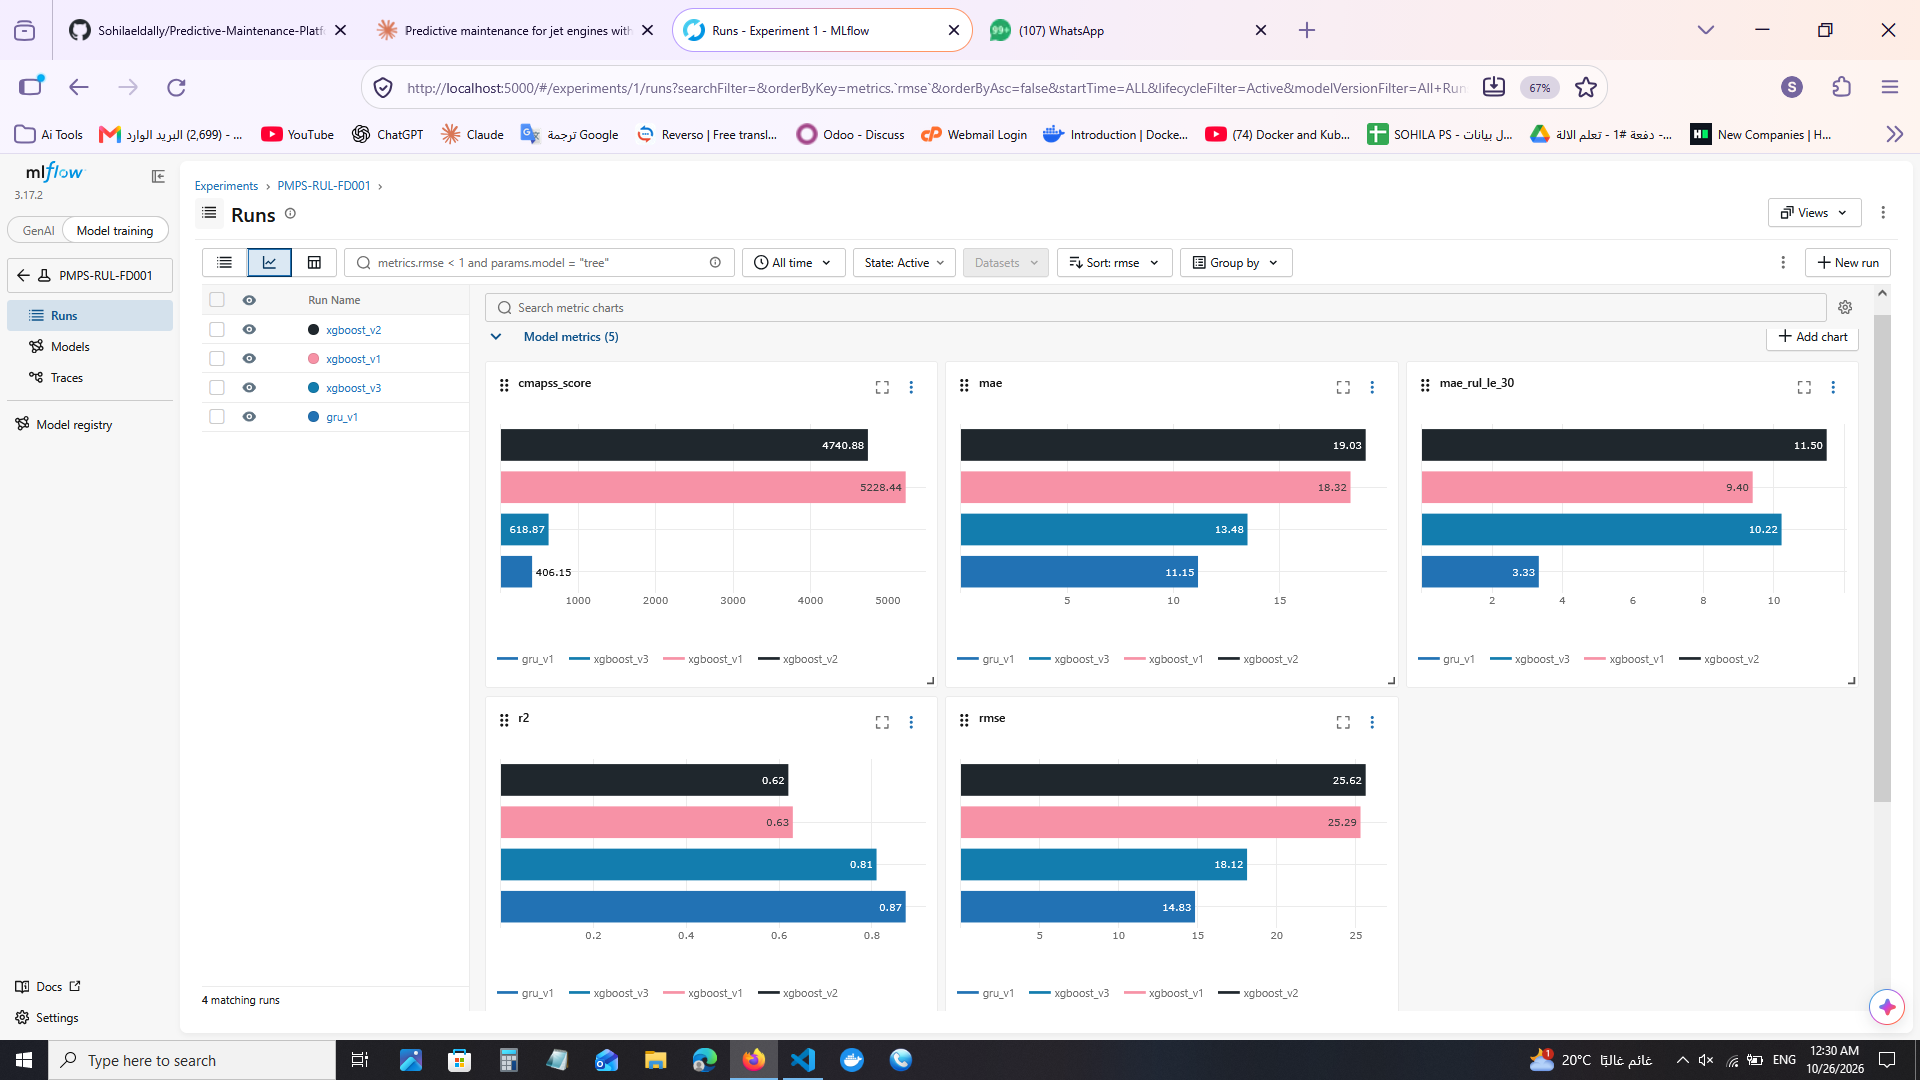
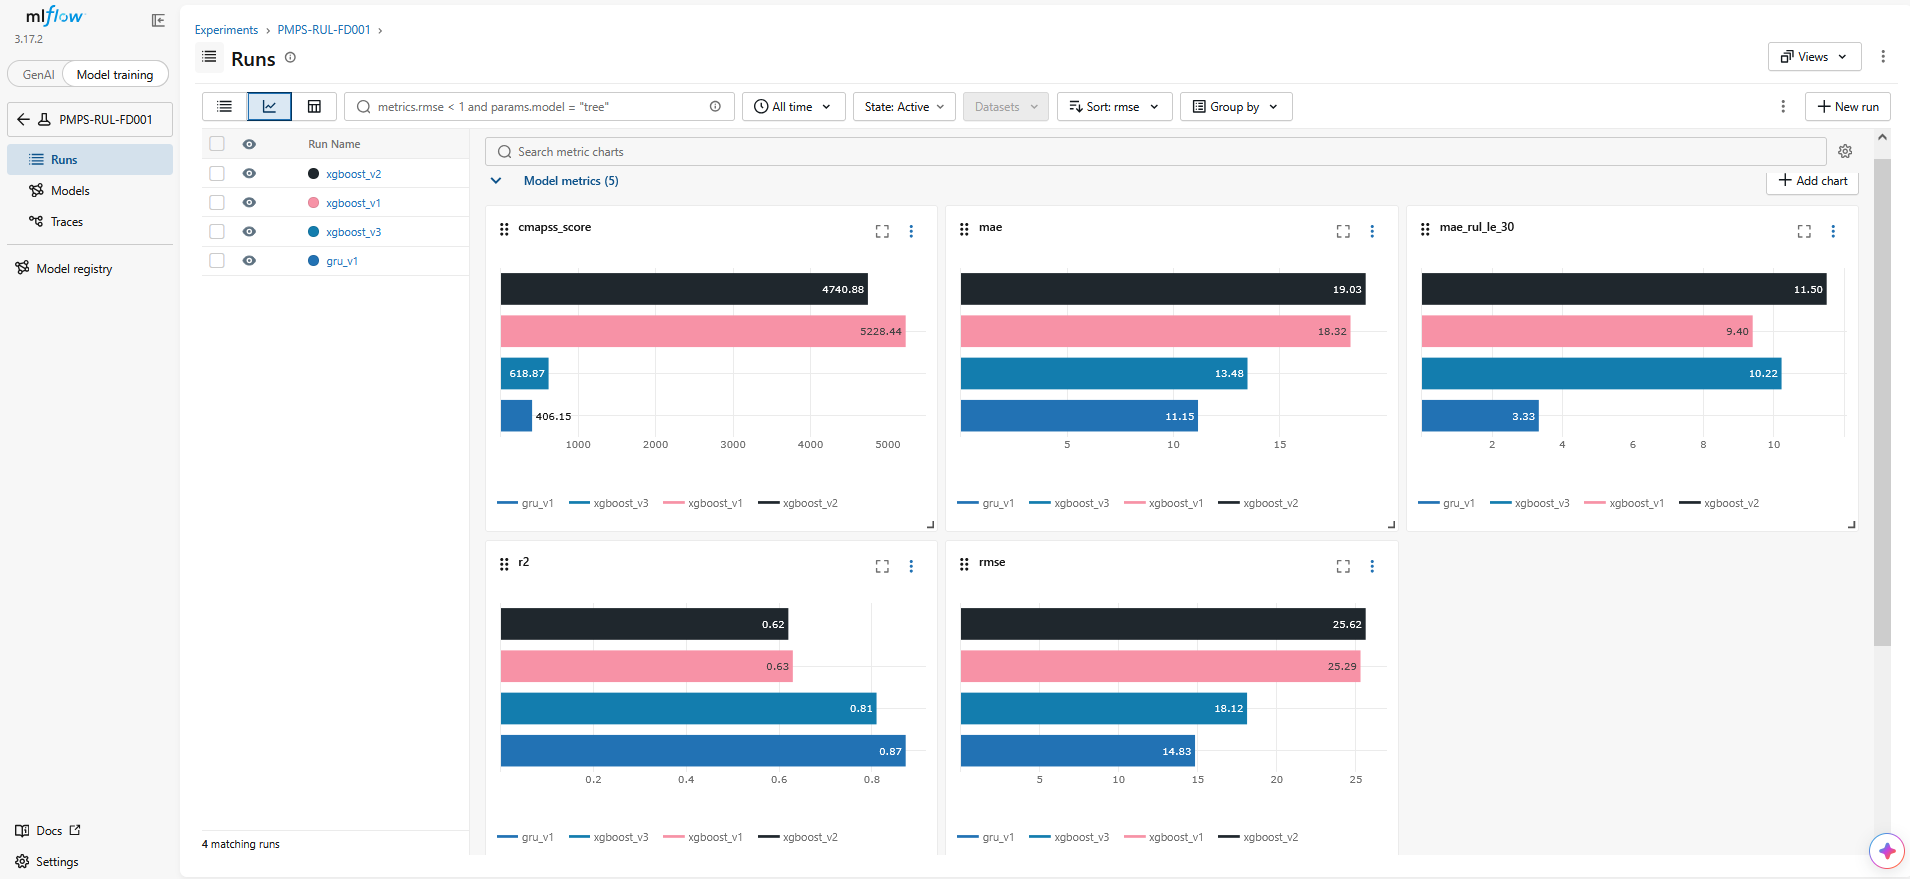
Update README to include MLflow experiment tracking details and add comparison image

diff --git a/README.md b/README.md
@@ -102,6 +102,8 @@ test set, last cycle of each engine):
 | Engines really at RUL ≤ 15 caught as CRITICAL (of 10) | 8, 0 false alarms | 8, 0 false alarms |
 | Engines really at RUL ≤ 30 caught as WARNING or worse (of 25) | 18, 1 false alarm | **22**, 1 false alarm |
 
+
+
 **Are the alerts early or late?** The tables above look at the last cycle only.
 `python -m ml.alert_timing` replays every test engine cycle by cycle and
 compares the first cycle where each model raised an alert with the cycle where
@@ -183,6 +185,21 @@ C-MAPSS score and the MAE where the true RUL is ≤ 30 (the alert zone). They
 match the results table above. One thing the alert-zone column shows: the RUL
 cap of v3 improves the overall error, but v1 is slightly better than v3 inside
 the alert zone (MAE 9.4 vs 10.2); only the GRU is clearly better there (3.3).
+
+
+All model versions are logged to MLflow (params, metrics, model artifact) so runs can be compared side by side.
+
+<p align="center">
+  <img src="docs/images/mlflow_runs.png" alt="MLflow run comparison" width="800">
+</p>
+
+To reproduce:
+
+```bash
+cd src
+python -m ml.track_experiments
+mlflow ui --backend-store-uri sqlite:///mlflow.db
+```
 
 ### Explainability (SHAP)
 
